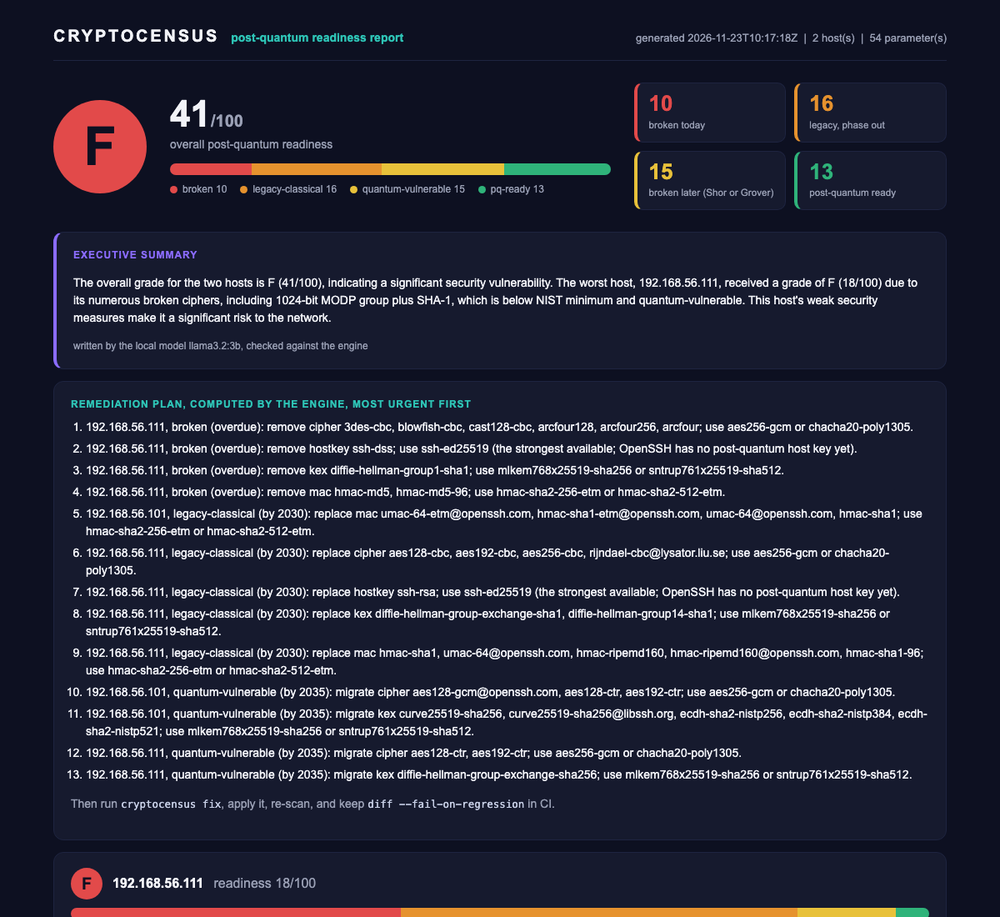
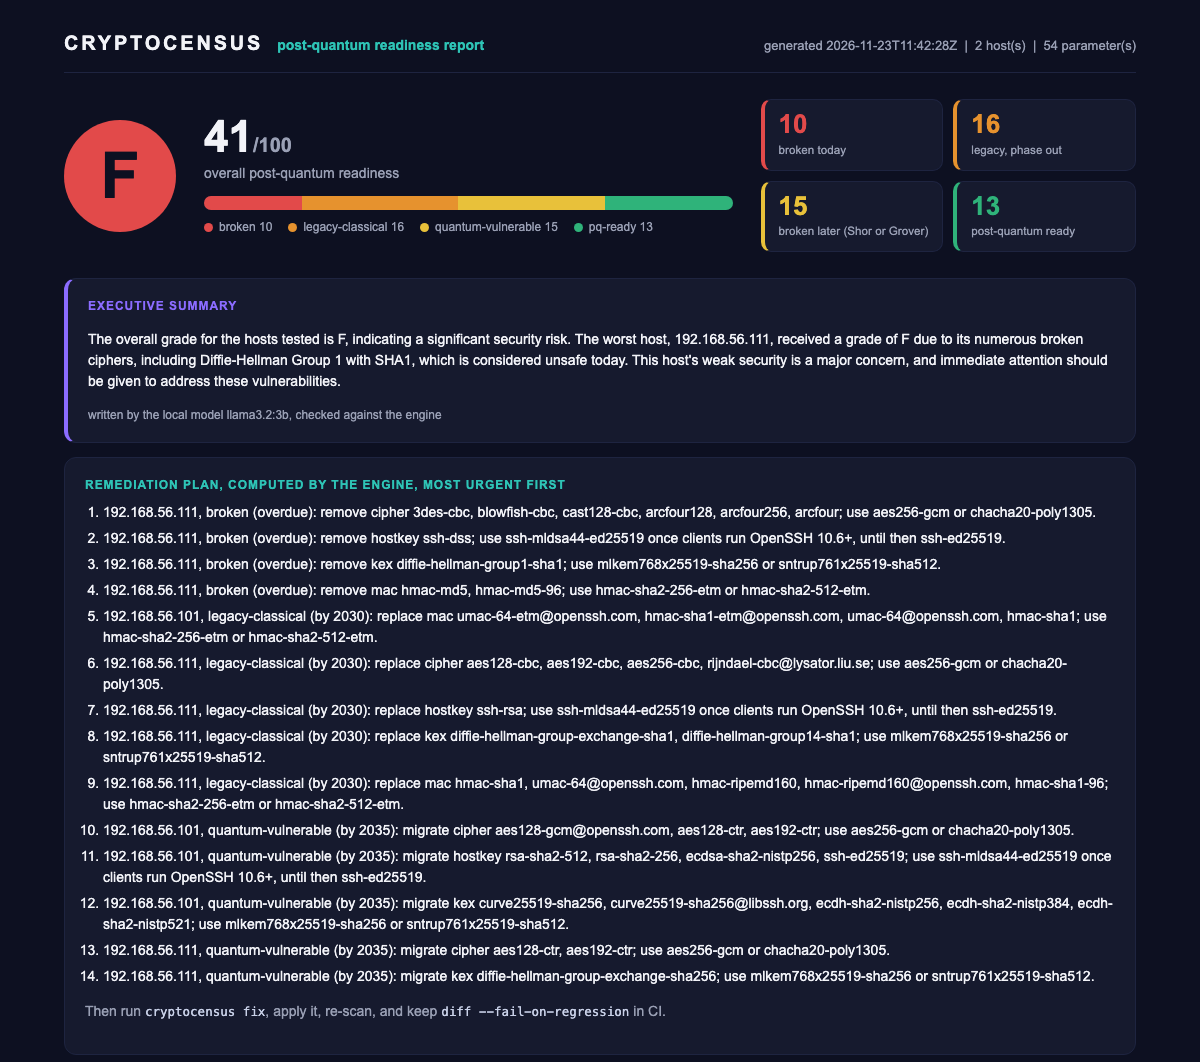
Probe every broken and legacy algorithm; ML-DSA facts; client check; honest wording
- downgrade: the probe list comes from the policy's broken and legacy bands
  instead of a hard-coded list, so every red and orange key exchange, cipher
  and MAC the server lists is probed; the other slots use the server's own
  non-weak choices; selftest checks it
- local reports the ssh client's first key exchange preference (macOS
  crypto.conf puts ecdh-sha2-nistp256 first, so a Mac negotiates classical
  ECDH with any server that still offers it)
- fix and the plan: ssh-mldsa44-ed25519 was added in OpenSSH 10.4 as an
  opt-in and is enabled by default in 10.6; the drop-in explains the step
- batch-GCD: exact-size moduli (top two prime bits set), shorter output
- AI digest lists algorithm names only, plus one band legend, so the small
  model stops repeating rule text as findings
- policy: SHA-1 and UMAC-64 MAC rule marked as a project rule in line with
  ssh-audit; sntrup761 history corrected
- README: new demo GIF and dashboard, corrected downgrade, ML-DSA, local and
  band descriptions

diff --git a/src/main.rs b/src/main.rs
@@ -879,10 +879,12 @@ fn robustness_selftest(policy: &Value) {
     // downgrade probes: one per weak algorithm, other slots from the server's strong choices
     let offer: Vec<(String, String)> = [("kex", "curve25519-sha256"), ("kex", "diffie-hellman-group1-sha1"), ("hostkey", "ssh-ed25519"),
         ("cipher", "aes256-gcm@openssh.com"), ("cipher", "3des-cbc"), ("cipher", "aes128-cbc"), ("cipher", "aes128-ctr"),
-        ("mac", "hmac-sha2-256"), ("mac", "hmac-md5")].iter().map(|(a, b)| (a.to_string(), b.to_string())).collect();
-    let pr = build_probes(&offer);
+        ("mac", "hmac-sha2-256"), ("mac", "hmac-md5"), ("mac", "hmac-sha1")].iter().map(|(a, b)| (a.to_string(), b.to_string())).collect();
+    let pr = build_probes(&offer, policy);
     let names: Vec<&str> = pr.iter().map(|p| p.weak.as_str()).collect();
-    assert_eq!(names, vec!["diffie-hellman-group1-sha1", "3des-cbc", "aes128-cbc", "hmac-md5"], "one probe per weak algorithm");
+    assert_eq!(names, vec!["diffie-hellman-group1-sha1", "3des-cbc", "aes128-cbc", "hmac-md5", "hmac-sha1"],
+               "one probe per broken or legacy algorithm, taken from the policy bands");
+    assert_eq!(pr[0].mac.as_deref(), Some("hmac-sha2-256"), "the other slots never use a weak MAC");
     assert_eq!(pr[0].cipher.as_deref(), Some("aes256-gcm@openssh.com"), "the kex probe uses a strong cipher");
     assert_eq!(pr[1].kex.as_deref(), Some("curve25519-sha256"), "the cipher probe uses a strong kex");
     assert_eq!(pr[3].cipher.as_deref(), Some("aes128-ctr"), "the MAC probe uses a strong non-AEAD cipher");
@@ -956,7 +958,7 @@ fn bench(targets: &str, port: u16, timeout: Duration, workers: usize, run_nmap: 
 
 // ================= post-verdict lifecycle features =================
 // The scanner labels risk. These turn the verdict into action: remediate (fix),
-// verify and monitor (diff), see crypto at rest (local), gate CI (SARIF +
+// verify and monitor (diff), see the host configuration (local), gate CI (SARIF +
 // --fail-under), and prove exploitability (active downgrade test).
 
 fn readiness_cat(cats: &[String]) -> f64 {
@@ -1028,6 +1030,10 @@ fn hardened_conf(host: &str, file: &str) -> String {
 # Needs OpenSSH 9.9 or newer (mlkem768x25519-sha256); `sshd -t` rejects it on older versions.
 # Install:  sudo cp {file} /etc/ssh/sshd_config.d/99-cryptocensus.conf  &&  sudo sshd -t  &&  sudo systemctl reload ssh
 # Verify:   cryptocensus scan --targets {host} --out after  &&  cryptocensus diff before/inventory.json after/inventory.json
+# Host key: ssh-ed25519 stays so every client can connect. OpenSSH 10.4 added the post-quantum
+#   ssh-mldsa44-ed25519 as an opt-in and 10.6 enables it by default. When your clients are there:
+#   ssh-keygen -t mldsa44-ed25519 -f /etc/ssh/ssh_host_mldsa44_ed25519_key, add it as a HostKey
+#   and list it first in HostKeyAlgorithms.
 KexAlgorithms {HARDENED_KEX}
 Ciphers {HARDENED_CIPHERS}
 MACs {HARDENED_MACS}
@@ -1072,7 +1078,7 @@ fn fix_cmd(targets: &str, port: u16, timeout: Duration, workers: usize, policy: 
         if drop.len() > 10 { println!("      {} and {} more", dim("..."), drop.len() - 10); }
         for k in &kept_weak {
             println!("      {} {:8} {} {}", dim("="), k.ctype, paint(&k.value, cat_fg(&k.category)),
-                     dim("kept: a post-quantum host key (ssh-mldsa44-ed25519) needs OpenSSH 10.5+ on both sides"));
+                     dim("kept: clients accept the post-quantum ssh-mldsa44-ed25519 by default only from OpenSSH 10.6"));
         }
         println!("    {} {} {:.0}/100 after applying {}", paint("=>", "92"),
                  paint(&format!(" {pred_g} "), cat_bg_for_grade(pred_g)), pred_s, dim(&path));
@@ -1191,7 +1197,7 @@ fn diff_cmd(old_path: &str, new_path: &str, fail_on_regression: bool) {
     }
 }
 
-// ----- Feature 3: crypto at rest on this host (closes the "network only" limitation) -----
+// ----- Feature 3: the host configuration and the ssh client (closes the "network only" limitation) -----
 fn openssl_pq(ver: &str) -> (String, String) {
     let nums: Vec<u32> = ver.split_whitespace().nth(1).unwrap_or("")
         .split('.').take(2).filter_map(|s| s.parse().ok()).collect();
@@ -1201,7 +1207,7 @@ fn openssl_pq(ver: &str) -> (String, String) {
 }
 fn local_cmd(policy: &Value, outdir: &str) {
     banner();
-    eprintln!("  {} local crypto at rest: effective sshd algorithms, host keys, openssl", bold("inspecting"));
+    eprintln!("  {} local host configuration: effective sshd algorithms, host keys, openssl, ssh client preference", bold("inspecting"));
     let host = "localhost";
     let mut recs: Vec<Record> = Vec::new();
     match Command::new("sshd").arg("-T").output() {
@@ -1247,35 +1253,45 @@ fn local_cmd(policy: &Value, outdir: &str) {
     let dir = format!("{outdir}/local");
     write_outputs(&recs, &dir, &stamp);
     print_summary(&recs, &BTreeMap::new());
+    client_kex_check(policy);
     println!("  {} {dir}/inventory.json | {dir}/cbom.json | {dir}/report.html | {dir}/cryptocensus.sarif", dim("written:"));
+}
+// SSH negotiation takes the CLIENT's first key exchange that the server also offers, so a
+// classical first choice wins against every server that still lists it. macOS ships
+// /etc/ssh/crypto.conf with "KexAlgorithms ^ecdh-sha2-nistp256", which does exactly that.
+fn client_kex_check(policy: &Value) {
+    let Ok(out) = Command::new("ssh").args(["-G", "127.0.0.1"]).output() else { return };
+    let text = String::from_utf8_lossy(&out.stdout).to_lowercase();
+    let Some(first) = text.lines().find_map(|l| l.strip_prefix("kexalgorithms ")).and_then(|v| v.split(',').next()) else { return };
+    let (cat, _, _) = score(policy, "kex", first);
+    if cat == "pq-ready" {
+        println!("  {} the ssh client on this machine prefers {first} first", paint("client", "92"));
+    } else {
+        println!("  {} the ssh client on this machine prefers {} [{}] first,", paint("client", "93"), bold(first), paint(&cat, cat_fg(&cat)));
+        println!("         so every server that still offers it gets a classical session");
+    }
 }
 
 // ----- Feature 5: active downgrade test. Does the server actually accept weak crypto? -----
-const WEAK_KEX: [&str; 4] = ["diffie-hellman-group1-sha1", "diffie-hellman-group14-sha1", "diffie-hellman-group-exchange-sha1", "gss-"];
-const WEAK_CIPHERS: [&str; 6] = ["3des-cbc", "arcfour", "arcfour128", "arcfour256", "blowfish-cbc", "aes128-cbc"];
-const WEAK_MACS: [&str; 3] = ["hmac-md5", "hmac-md5-96", "hmac-sha1-96"];
-
-fn is_weak_name(v: &str, weak: &[&str]) -> bool { let l = v.to_lowercase(); weak.iter().any(|w| l.contains(&w.to_lowercase())) }
-fn weak_list(ctype: &str) -> &'static [&'static str] {
-    match ctype { "kex" => &WEAK_KEX[..], "cipher" => &WEAK_CIPHERS[..], _ => &WEAK_MACS[..] }
-}
 #[derive(Debug, PartialEq)]
 struct Probe { ctype: &'static str, weak: String, kex: Option<String>, cipher: Option<String>, mac: Option<String> }
-// One probe for EVERY weak algorithm the server lists. The weak name goes alone in its slot;
-// the other slots take the server's own strong choices, so a probe can only fail on the
-// algorithm under test. A MAC is only negotiated with a non-AEAD cipher.
-fn build_probes(found: &[(String, String)]) -> Vec<Probe> {
+// One probe for EVERY weak key exchange, cipher and MAC the server lists, where weak means the
+// policy's broken or legacy-classical band (the red and orange rows of the scan). The weak name
+// goes alone in its slot; the other slots take the server's own first non-weak choice, so a
+// probe can only fail on the algorithm under test. A MAC is only negotiated with a non-AEAD cipher.
+fn build_probes(found: &[(String, String)], policy: &Value) -> Vec<Probe> {
+    let weak = |t: &str, v: &str| { let c = score(policy, t, v).0; c == "broken" || c == "legacy-classical" };
     let pick = |t: &str, no_aead: bool| -> Option<String> {
         let ok = |v: &String| !(no_aead && (v.contains("gcm") || v.contains("poly1305")));
         let slot: Vec<&String> = found.iter().filter(|(c, _)| c == t).map(|(_, v)| v).filter(|v| ok(v)).collect();
-        slot.iter().find(|v| !is_weak_name(v, weak_list(t))).or(slot.first()).map(|v| v.to_string())
+        slot.iter().find(|v| !weak(t, v)).or(slot.first()).map(|v| v.to_string())
     };
     let (pk, pc, pm, pc_mac) = (pick("kex", false), pick("cipher", false), pick("mac", false), pick("cipher", true));
     let mut probes = Vec::new();
     let mut seen = BTreeSet::new();
     for ctype in ["kex", "cipher", "mac"] {
         for (c, v) in found.iter().filter(|(c, _)| c == ctype) {
-            if !is_weak_name(v, weak_list(c)) || !seen.insert(v.clone()) { continue; }
+            if !weak(c, v) || !seen.insert(v.clone()) { continue; }
             let w = Some(v.clone());
             probes.push(match ctype {
                 "kex" => Probe { ctype: "kex", weak: v.clone(), kex: w, cipher: pc.clone(), mac: pm.clone() },
@@ -1377,7 +1393,7 @@ fn downgrade_cmd(targets: &str, port: u16, timeout: Duration, policy: &Value) {
         let hostkeys: Vec<String> = found.iter().filter(|(ct, _)| ct == "hostkey").map(|(_, v)| v.clone()).collect();
         let hk = if hostkeys.is_empty() { "ssh-ed25519,rsa-sha2-256,ssh-rsa".to_string() } else { hostkeys.join(",") };
         println!("\n  {} {}", bold("host"), bold(&ip.to_string()));
-        let probes = build_probes(&found);
+        let probes = build_probes(&found, policy);
         if probes.is_empty() {
             println!("    {} no weak kex/cipher/mac in the offer", paint("ok", "92"));
             match live_downgrade(*ip, port, "diffie-hellman-group1-sha1", &hk, "3des-cbc", "hmac-md5", timeout) {
@@ -1657,7 +1673,8 @@ fn is_probable_prime(n: &BigUint, small: &[u64], rng: &mut Xorshift) -> bool {
     true
 }
 fn gen_prime(rng: &mut Xorshift, bits: u64, small: &[u64]) -> BigUint {
-    loop { let c = rand_biguint(rng, bits); if is_probable_prime(&c, small, rng) { return c; } }
+    // the two top bits set, as real RSA key generation does, so p*q has exactly 2*bits bits
+    loop { let c = rand_biguint(rng, bits) | (BigUint::one() << (bits - 2)); if is_probable_prime(&c, small, rng) { return c; } }
 }
 fn batch_gcd(moduli: &[BigUint]) -> Vec<BigUint> {
     // product tree: each level is the pairwise products of the level below
@@ -1699,8 +1716,8 @@ fn batchgcd_run(keys: usize, bits: u64) {
     banner();
     let small = small_primes(2000);
     let mut rng = Xorshift(0x9E3779B97F4A7C15);
-    let size_note = if 2 * bits < 2048 { " (toy size so it runs live; the method is the same at RSA-2048)" } else { "" };
-    println!("  {} building a corpus of {keys} RSA-{} keys with a planted shared prime{size_note}", bold("[*]"), 2 * bits);
+    let size_note = if 2 * bits < 2048 { " (toy size for a live demo)" } else { "" };
+    println!("  {} corpus: {keys} RSA-{} keys, one shared prime planted{size_note}", bold("[*]"), 2 * bits);
     let planted = gen_prime(&mut rng, bits, &small);
     let mut moduli: Vec<BigUint> = Vec::with_capacity(keys + 2);
     let mut labels: Vec<String> = Vec::with_capacity(keys + 2);
@@ -1727,8 +1744,8 @@ fn batchgcd_run(keys: usize, bits: u64) {
             let challenge = BigUint::from_bytes_be(b"authenticate-as-this-host") % &moduli[i];
             let sig = challenge.modpow(&d, &moduli[i]);
             let ok = sig.modpow(&e, &moduli[i]) == challenge;
-            println!("    {} {}: recovered a {}-bit shared prime, rebuilt the {}-bit private key, forged signature verifies: {}",
-                     paint("+", "92"), labels[i], p.bits(), d.bits(),
+            println!("    {} {}: shared {}-bit prime, {}-bit private key rebuilt, forged signature verifies: {}",
+                     paint("+", "92"), labels[i], p.bits(), moduli[i].bits(),
                      if ok { paint("true", "92") } else { paint("false", "91") });
         }
     }
@@ -2042,6 +2059,7 @@ fn build_findings_digest(recs: &[Record]) -> (String, &'static str, f64) {
     let os = readiness(&all);
     let (og, _) = grade(os);
     let mut d = format!("Overall: grade {og} ({os:.0}/100) across {} host(s) and {} parameter(s).\n", by_host.len(), recs.len());
+    d.push_str("Bands: broken = unsafe today; legacy-classical = deprecated, phase out; quantum-vulnerable = safe today, breakable by a future quantum computer; pq-ready = believed quantum-safe.\n");
     if let Some((w, ws)) = worst_host(recs) {
         d.push_str(&format!("Worst host: {} with grade {} ({ws:.0}/100).\n", clean(&w), grade(ws).0));
     }
@@ -2056,7 +2074,9 @@ fn build_findings_digest(recs: &[Record]) -> (String, &'static str, f64) {
         let mut weak: Vec<&&Record> = rs.iter().filter(|r| r.category != "pq-ready").collect();
         weak.sort_by(|a, b| severity(&b.category).cmp(&severity(&a.category)));
         for r in weak.iter().take(8) {
-            d.push_str(&format!("  - {} {} [{}] {}\n", clean(&r.ctype), clean(&r.value), clean(&r.category), clean(&r.why)));
+            // only the algorithm names: the per-rule rationale lists families (RC4, null, export)
+            // a host may not have, and a small model repeats them as findings
+            d.push_str(&format!("  - {} {} [{}]\n", clean(&r.ctype), clean(&r.value), clean(&r.category)));
         }
     }
     (d, og, os)
@@ -2104,7 +2124,7 @@ fn remediation_plan(recs: &[Record]) -> String {
         "kex" => "mlkem768x25519-sha256 or sntrup761x25519-sha512",
         "cipher" => "aes256-gcm or chacha20-poly1305",
         "mac" => "hmac-sha2-256-etm or hmac-sha2-512-etm",
-        "hostkey" => "ssh-mldsa44-ed25519 where both sides run OpenSSH 10.5+, otherwise ssh-ed25519",
+        "hostkey" => "ssh-mldsa44-ed25519 once clients run OpenSSH 10.6+, until then ssh-ed25519",
         "tls_group" => "X25519MLKEM768",
         _ => "a post-quantum ready equivalent",
     };
@@ -2251,7 +2271,7 @@ fn usage() -> ! {
          cryptocensus tls       --targets <IPs|CIDR> --port 4443\n  \
          cryptocensus fix       --targets <IPs|CIDR> [--port 22] [--out ./results]     post-quantum sshd hardening + the grade it reaches\n  \
          cryptocensus diff      <before.json> <after.json> [--fail-on-regression]      drift between two scans\n  \
-         cryptocensus local     [--out ./results]                                      crypto at rest on this host (sshd, host keys, openssl)\n  \
+         cryptocensus local     [--out ./results]                                      host configuration (sshd, host keys, openssl)\n  \
          cryptocensus downgrade --targets <IPs|CIDR> [--port 22]                       active test: does the server accept weak crypto\n  \
          cryptocensus shor      [--factor N | --rsa-demo --rsa-n N | --resource BITS]   Shor's algorithm: factor an RSA key, rebuild the private key\n  \
          cryptocensus batchgcd  [--keys N] [--bits B]                                  shared-prime key recovery across a key corpus (Mining your Ps and Qs)\n  \

diff --git a/README.md b/README.md
@@ -1,21 +1,22 @@
 # CryptoCensus
 
 A native crypto-posture scanner. It reads the cryptography a host advertises on
-the wire, scores every algorithm for post-quantum readiness against NIST
-guidance, grades the host, writes a CycloneDX 1.6 CBOM, proves the fix, and can
+the wire, scores every algorithm for post-quantum readiness against cited
+standards, grades the host, writes a CycloneDX 1.6 CBOM, proves the fix, and can
 write the report with a local model. One Rust binary, dependency-light.
 
 CryptoCensus is not a port scanner. It speaks SSH at the protocol level: after
 the version exchange a server sends its `SSH_MSG_KEXINIT` in the clear, listing
 every key exchange, host key, cipher and MAC it supports. CryptoCensus reads that
-packet directly (no nmap, no crypto handshake), so a whole /24 takes about a
-second.
+packet directly (no nmap, no key exchange), so a whole /24 takes about a second
+and a half.
 
-![CryptoCensus demo: scan, downgrade test, Shor, batch-GCD, fix, diff, roadmap and the checked AI brief](docs/demo.gif)
+![CryptoCensus demo: a weak and a fully post-quantum server scanned, a real OpenSSH client check, the Mac client finding and the live downgrade test](docs/demo.gif)
 
 The `report` command writes a self-contained HTML dashboard: the grade, the
-readiness bands, the AI summary checked against the engine, and the
-engine-computed remediation plan.
+readiness bands, a summary (written by the local model and checked against the
+engine with `--ai`, a deterministic template without it), and the engine-computed
+remediation plan.
 
 ![The HTML dashboard for a two-host lab](docs/dashboard.png)
 
@@ -36,8 +37,8 @@ cargo build --release
 ./target/release/cryptocensus selftest
 ```
 
-Pure standard library plus `serde_json`; `num-bigint` is used only by the
-batch-GCD command.
+Pure standard library plus `serde_json`; `num-bigint`, `num-integer` and
+`num-traits` are used only by the batch-GCD command.
 
 ## Readiness bands
 
@@ -45,11 +46,17 @@ Every algorithm is placed in one of four bands, each cited to a standard in
 `policy.json`:
 
 - `broken`: unsafe today with no quantum computer (RC4, 3DES, MD5, ssh-dss, 1024-bit DH).
-- `legacy-classical`: deprecated, phase out (AES-CBC, HMAC-SHA1, ssh-rsa).
-- `quantum-vulnerable`: safe today, broken by Shor later (curve25519, ECDH, RSA, AES-128).
-- `pq-ready`: safe against a quantum computer (ML-KEM, sntrup761, AES-256-GCM, ChaCha20-Poly1305).
+- `legacy-classical`: deprecated, phase out (AES-CBC, ssh-rsa). HMAC-SHA1 and 64-bit-tag
+  UMAC are here by a project rule in line with ssh-audit's warnings; NIST SP 800-131A
+  still allows HMAC-SHA-1.
+- `quantum-vulnerable`: safe today, broken by Shor later (curve25519, ECDH, RSA, ed25519).
+  AES-128 is here too by a project rule stricter than NIST: Grover weakens it, it
+  is not broken, and CNSA 2.0 asks for AES-256.
+- `pq-ready`: believed safe against a quantum computer (ML-KEM, sntrup761, ML-DSA
+  host keys, AES-256-GCM, ChaCha20-Poly1305, SHA-2 MACs).
 
-Sources: NIST SP 800-131A, NIST IR 8547, NIST FIPS 203.
+Sources: NIST SP 800-131A, the NIST IR 8547 draft, NIST FIPS 203 and 204, RFC 8439,
+OpenSSH release notes (sntrup761 is not a NIST standard).
 
 ## Commands
 
@@ -58,8 +65,8 @@ cryptocensus scan      --targets <IPs|CIDR> [--out ./results] [--fail-under A|B|
 cryptocensus tls       --targets <IPs|CIDR> --port 443
 cryptocensus fix       --targets <IPs|CIDR>        generate a post-quantum sshd config + predicted grade
 cryptocensus diff      <before.json> <after.json> [--fail-on-regression]
-cryptocensus local                                crypto at rest: sshd -T, host keys, openssl
-cryptocensus downgrade --targets <IPs|CIDR>        active test: does the server accept weak crypto
+cryptocensus local                                host configuration: sshd -T, host keys, openssl, ssh client
+cryptocensus downgrade --targets <IPs|CIDR>        active test: will the server really use each weak algorithm
 cryptocensus shor      [--factor N | --rsa-demo --rsa-n N | --resource BITS]
 cryptocensus batchgcd  [--keys N] [--bits B]       shared-prime key recovery (Mining your Ps and Qs)
 cryptocensus roadmap   [--out ./results]           dated PQ migration plan (Mosca, knapsack, topo sort)
@@ -76,9 +83,28 @@ Exit codes: `0` success, `1` a gate failed (`--fail-under`, `--fail-on-regressio
 `2` an error, including a scan where no host answered. A scan that sees nothing is
 never graded: it exits 2 and keeps the previous results.
 
-`downgrade` sends one probe per weak algorithm the server offers, with every other
-slot taken from the server's own offer, so a server that accepts a single weak
-algorithm is caught. A reset or silence is never counted as acceptance.
+`downgrade` sends one probe for every broken or legacy key exchange, cipher and MAC
+the server lists (the policy's red and orange bands), with that algorithm alone in its
+slot and the server's own non-weak choices in the others, so a server that accepts a
+single weak algorithm is caught. A disconnect or reset counts
+as refused; accepted means the connection stays open, waiting for the client's key
+exchange message, and it is only reported for an algorithm the server listed. This
+shows what an old or attacker-controlled client gets. It is not a man-in-the-middle
+claim: SSH signs both KEXINITs into the exchange hash.
+
+`local` also reports the ssh client's first key exchange choice. SSH negotiates the
+client's first preference that the server supports, and macOS ships
+`/etc/ssh/crypto.conf` with `KexAlgorithms ^ecdh-sha2-nistp256`, so a Mac gets
+classical ECDH from any server that still offers it, even when both sides support
+ML-KEM. Removing the server's classical fallbacks is what forces ML-KEM.
+
+## Post-quantum host keys
+
+OpenSSH 10.4 added the ML-DSA-44 + Ed25519 host key (`ssh-mldsa44-ed25519`) as an
+opt-in, and 10.6 enables it by default. `fix` keeps `ssh-ed25519` so older clients
+can still connect, and the generated drop-in explains how to add the ML-DSA key. A
+server with an ML-KEM key exchange, AES-256 or ChaCha20 ciphers, SHA-2 MACs and only
+an ML-DSA host key grades A 100/100.
 
 ## The AI layer
 
@@ -95,8 +121,10 @@ ollama serve &
 ollama pull llama3.2:3b
 cryptocensus scan --targets 127.0.0.1 --out results
 cryptocensus report --ai --out results
-cryptocensus ask "which host is the worst and what should I fix first?" --out results
+cryptocensus ask "which host is the worst and why?" --out results
 ```
+
+`ask` answers come from the same computed findings and are advisory.
 
 ## Testing against OpenSSH 9.8 or newer
 
@@ -108,8 +136,9 @@ reports "no SSH service answered" (exit 2).
 ## Limitations
 
 It reads the crypto a service advertises, so it sees SSH and TLS on the wire; the
-`local` command adds crypto at rest (effective sshd config, host keys, OpenSSL
-version), but it does not see crypto buried inside application code. The scoring
+`local` command adds the host configuration (effective sshd config, host keys,
+OpenSSL version, ssh client preference), but it does not see crypto buried inside
+application code. The scoring
 is a reasonable reading of the standards, not a formal proof.
 
 ## Status
